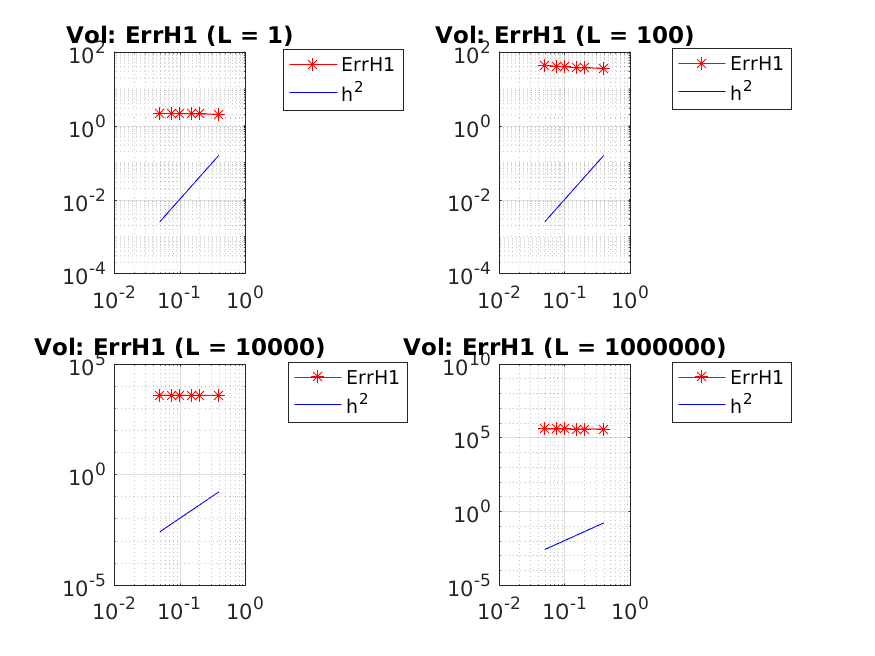
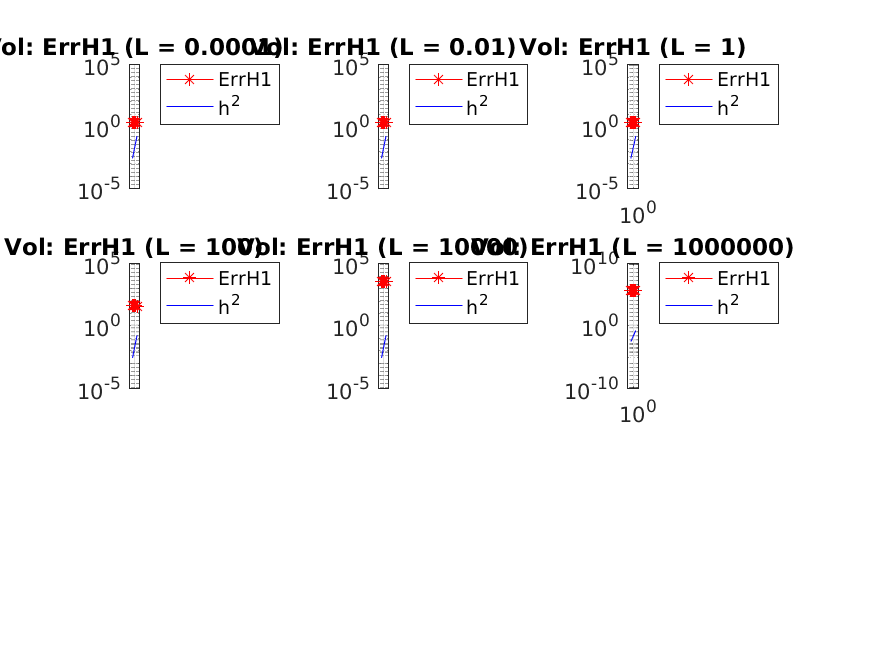
Update Project

diff --git a/Progetto/main.m b/Progetto/main.m
@@ -9,7 +9,8 @@ out = 'no';
 plot = 'no';
 
 % Lambda Array Definition
-lambda = [1, 100, 10000, 1000000];
+% lambda = [1, 100, 10000, 1000000];
+lambda = [0.0001, 0.01, 1, 100, 10000, 1000000];
 nl = length(lambda);
 
 % h_max Array Definition
@@ -77,7 +78,7 @@ disp(' ');
   figure(1);
   hold on;
  
-    subplot(2, 2, j);
+    subplot(3, 3, j);
     loglog (h, errL2(:,j), '-*r', h, h.^3,'-b');
     grid on;
     legend ('ErrL2', 'h^3', 'location', 'northeastoutside');
@@ -91,7 +92,7 @@ disp(' ');
  
   hold on;
   
-      subplot(2, 2, j), loglog (h, errH1(:,j), '-*r', h, h.^2,'-b');
+      subplot(3, 3, j), loglog (h, errH1(:,j), '-*r', h, h.^2,'-b');
       grid on;
       legend ('ErrH1', 'h^2', 'location', 'northeastoutside');
       title (['ErrH1 (L = ', num2str(lambda(j)), ')']);

diff --git a/Progetto/main_vol.m b/Progetto/main_vol.m
@@ -9,7 +9,7 @@ out = 'no';
 plot = 'no';
 
 % Lambda Array Definition
-lambda = [1, 100, 10000, 1000000];
+lambda = [0.0001, 0.01, 1, 100, 10000, 1000000];
 nl = length(lambda);
 
 % h_max Array Definition
@@ -77,7 +77,7 @@ disp(' ');
   figure(1);
   hold on;
  
-    subplot(2, 2, j);
+    subplot(3, 3, j);
     loglog (h, errL2(:,j), '-*r', h, h.^3,'-b');
     grid on;
     legend ('ErrL2', 'h^3', 'location', 'northeastoutside');
@@ -91,7 +91,7 @@ disp(' ');
  
   hold on;
   
-      subplot(2, 2, j), loglog (h, errH1(:,j), '-*r', h, h.^2,'-b');
+      subplot(3, 3, j), loglog (h, errH1(:,j), '-*r', h, h.^2,'-b');
       grid on;
       legend ('ErrH1', 'h^2', 'location', 'northeastoutside');
       title (['Vol: ErrH1 (L = ', num2str(lambda(j)), ')']);

diff --git a/Progetto/carico1.m b/Progetto/carico1.m
@@ -3,7 +3,7 @@ function f = carico1(x,y)
 %    F = CARICO1(X,Y)
 
 %    This function was generated by the Symbolic Math Toolbox version 7.1.
-%    07-Feb-2017 01:29:05
+%    07-Feb-2017 18:30:17
 
 t3 = x.^2;
 t2 = t3-1.0;

diff --git a/Progetto/carico2.m b/Progetto/carico2.m
@@ -3,7 +3,7 @@ function f = carico2(x,y)
 %    F = CARICO2(X,Y)
 
 %    This function was generated by the Symbolic Math Toolbox version 7.1.
-%    07-Feb-2017 01:29:05
+%    07-Feb-2017 18:30:18
 
 t3 = y.^2;
 t2 = t3-1.0;

diff --git a/README.md b/README.md
@@ -54,10 +54,3 @@ Lab Session 9
  
   - Mixed Form Diffusion With Raviart-Thomas Element
 
-
------
-Project
- 
-  - Linear Isotropic Elasticity
-
-
